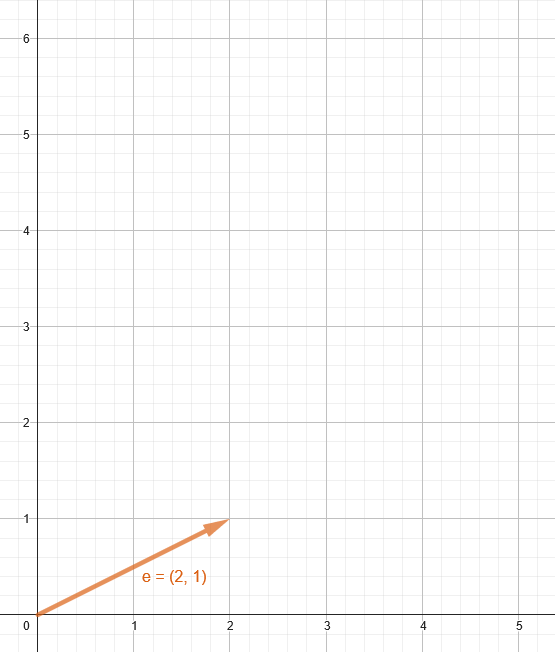
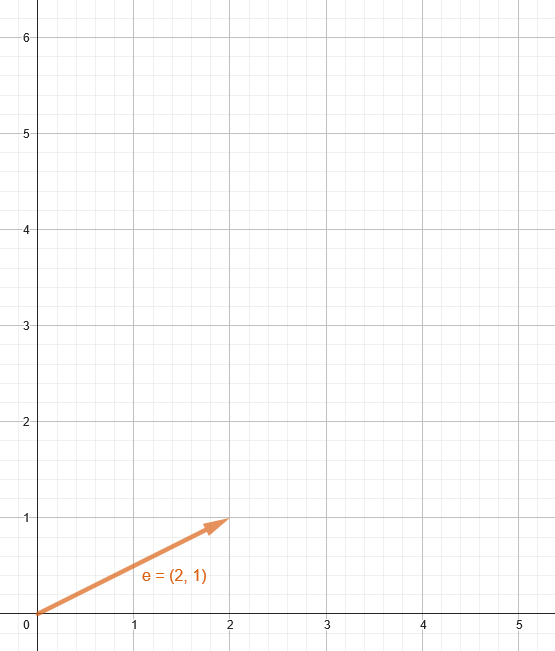
Spelling of "tail" and some pixel perfect crops of the summation images.

diff --git a/docs/06-numbers/02-vectors.md b/docs/06-numbers/02-vectors.md
@@ -88,6 +88,8 @@ So if we called our example vector (5,3) "c" it might be written in a textbook a
 
 ![Math Vector](math_vector.png)
 
+When talking about vectors in this modules we won't be using this arrow notion, but it is used in [our textbook](https://natureofcode.com/).
+
 ## Interactive 2D Vector Grid
 
 <iframe src="https://editor.p5js.org/stungeye/embed/wFj8pPBGe" scrolling="no" frameborder="no"  width="400" height="442"></iframe>
@@ -120,22 +122,22 @@ vector g = (5, 6)
 
 ## Visual Vector Addition
 
-Adding vectors can also be performed visually on a 2D plane. We can add two vectors by drawing them "tip to tale", where tip means the tip of the arrow and tale means the start of the vector.
+Adding vectors can also be performed visually on a 2D plane. We can add two vectors by drawing them "tip to tail", where tip means the tip of the arrow and tail means the start of the vector.
 
 To visually add to vectors, we draw our first vector starting at the origin.
 
-Example e = (2,1)
+Example: e = (2,1)
 
 ![Vector e](sum_part1.png)
 
-Next, the second vector's "tale" (starting place) is drawn at the "tip" (end) of the first vector.
+Next, the second vector's "tail" (starting place) is drawn at the "tip" (end) of the first vector.
 
-Example f = (3,5)
+Example: f = (3,5)
 
 ![Vectors e and f](sum_part2.png)
 
 The resulting visual sum can be seen by connecting the origin to the tip of the second vector.
 
-Example g = e + f = (5, 6)
+Example: g = e + f = (5, 6)
 
 ![Vectors e + f = g](sum_part3.png)
